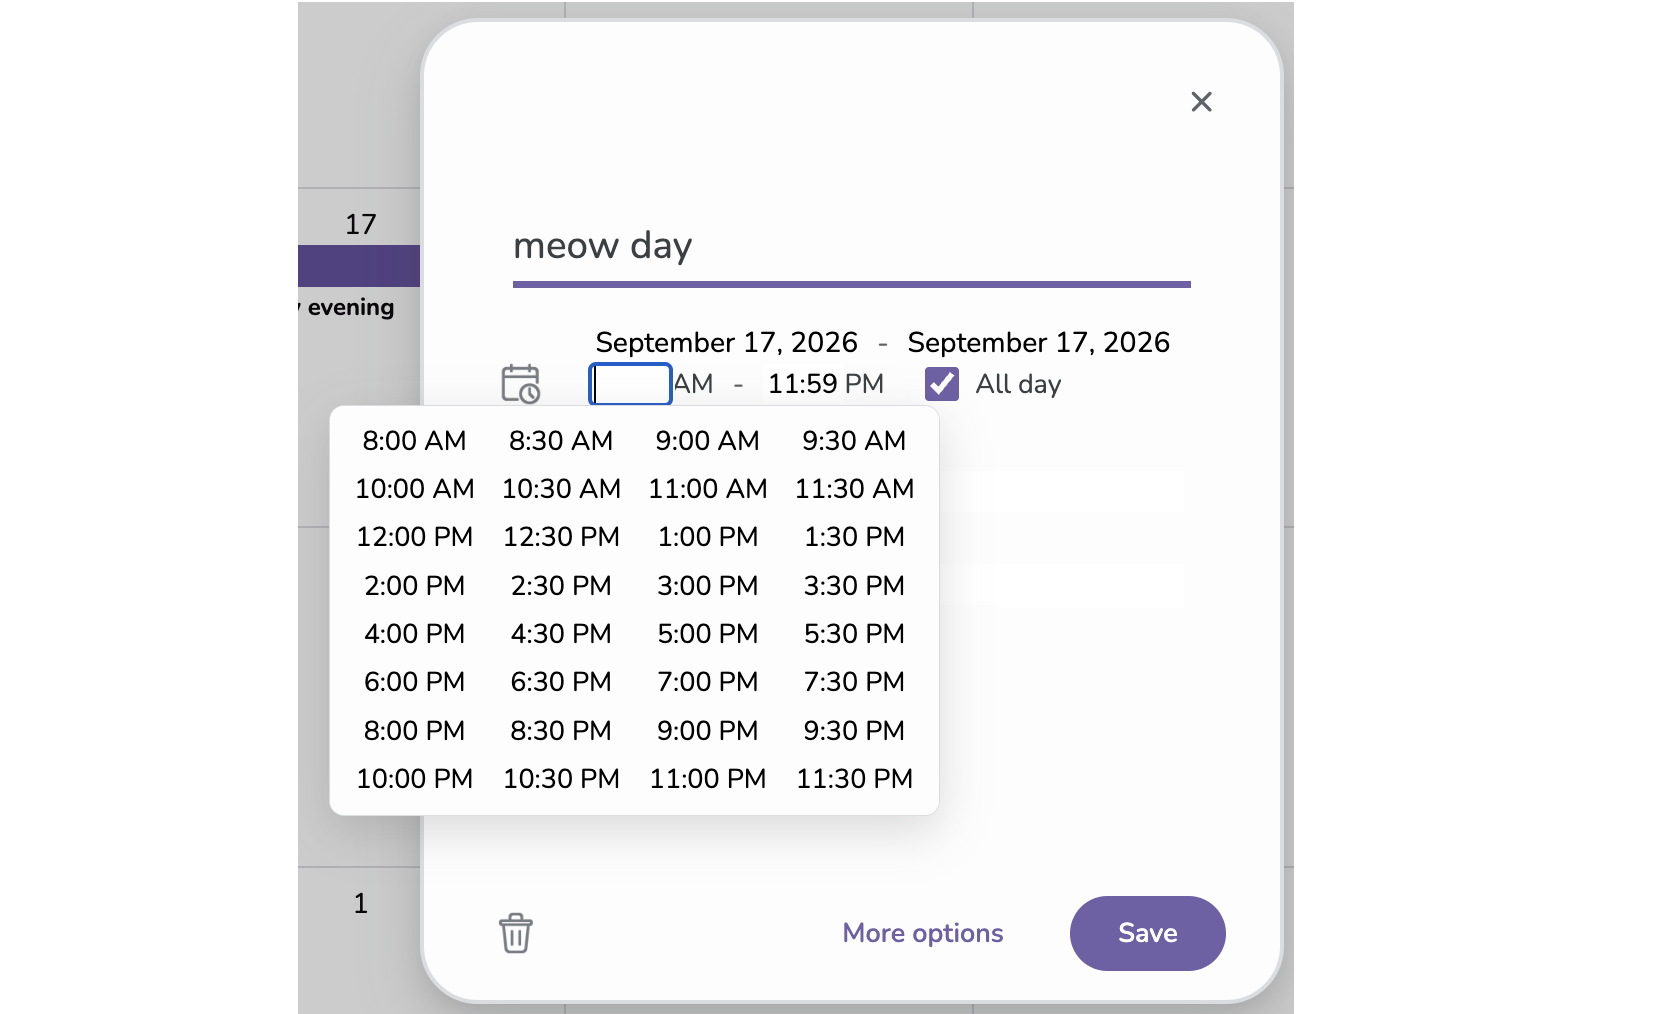
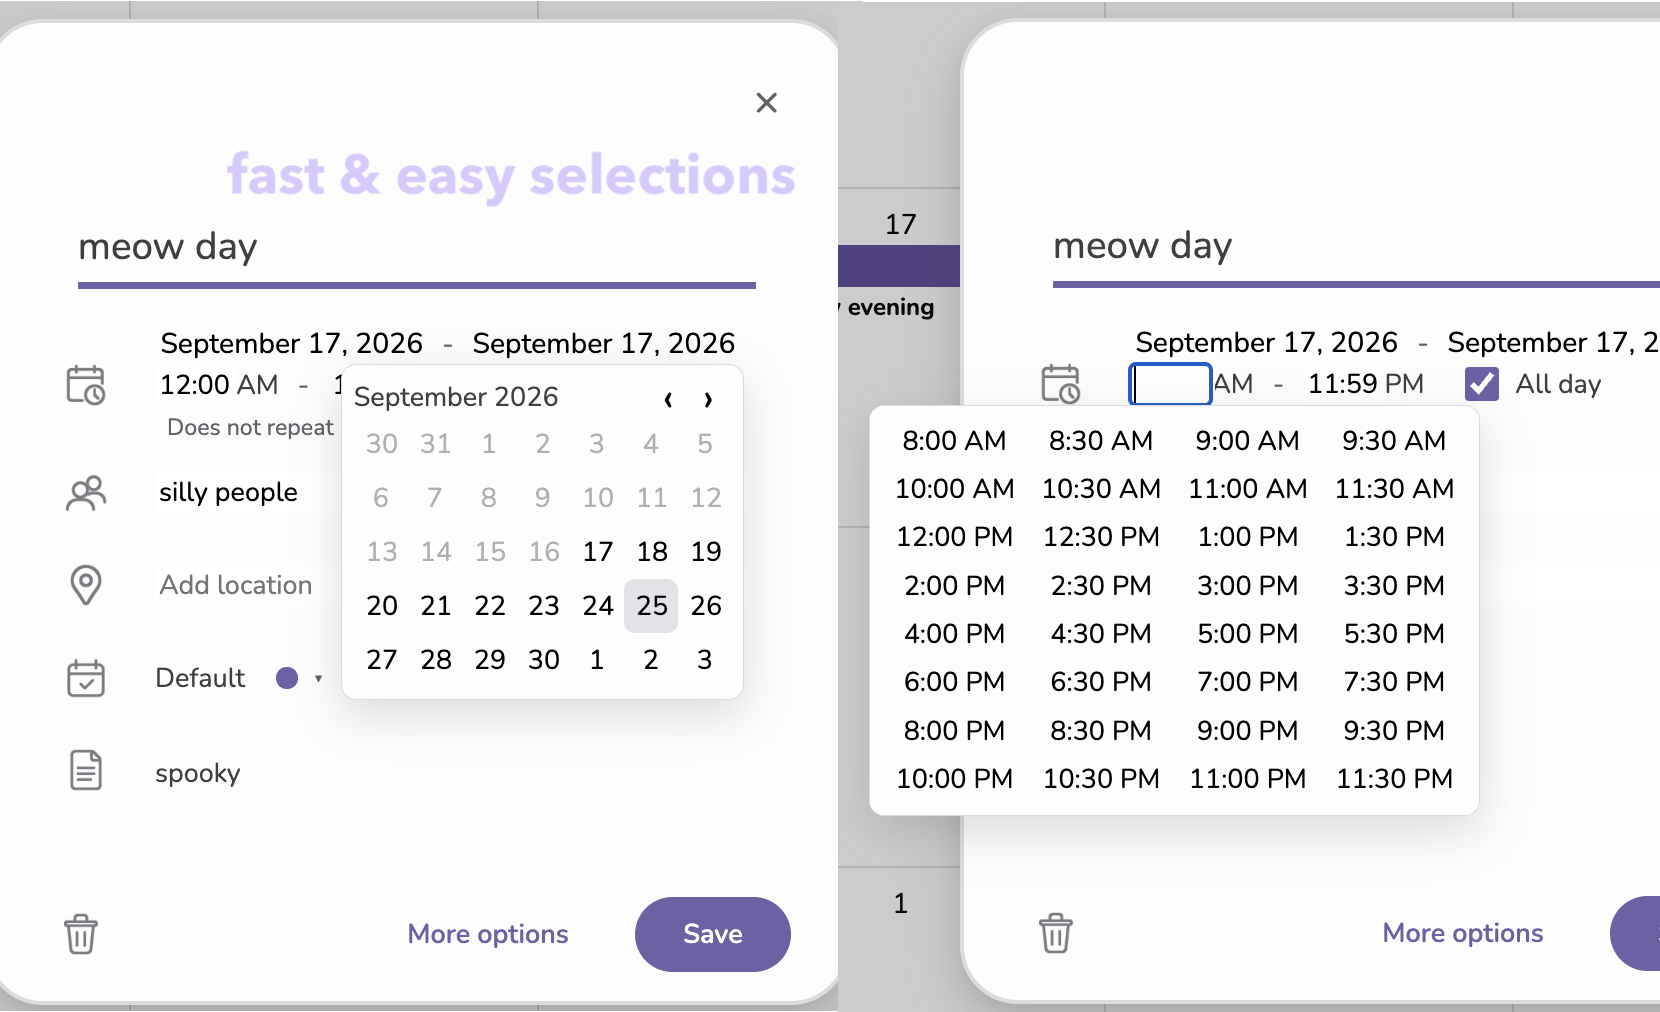
edited assets for proj card 1

diff --git a/src/components/experience/Experience.tsx b/src/components/experience/Experience.tsx
@@ -234,7 +234,7 @@ export default function Experience() {
                             shortHighlight="solo fullstack"
                             highlight="Independently designed, developed, and deployed as a full-stack product."
                             description="Tired of how many steps it took to schedule simple events, I built Tempo around the small conveniences I wished my calendar had. It keeps calendar views uncluttered while making everyday tasks faster and more intuitive. I plan to expand Tempo with an AI assistant to tackle schedule planning and more flexible recurring events."
-                            myContribution={["Designed and implemented a regex-based event parser that handles 3+ scheduling input types Google and Apple Calendar miss, such as multi-day ranges and expressions combining dates, times, and “now” in one field.",
+                            myContribution={["Designed and implemented a regex-based event parser that handles 3+ scheduling input types Google and Apple Calendar miss, such as multi-day ranges and expressions combining dates, times, and relative dates (now, yesterday, etc) in one field.",
                                 "Built a scrollable month view for natural cross-month navigation & custom React date/time controls for faster event entry.",
                                 "Building Tempo alone taught me to think across a full-stack system, from React state and responsive layouts to authenticated APIs and user-scoped persistence. This was where those separate layers finally became one connected flow."]}
                             cardImg={`${mediaFilePath}tempo/img1.png`}
